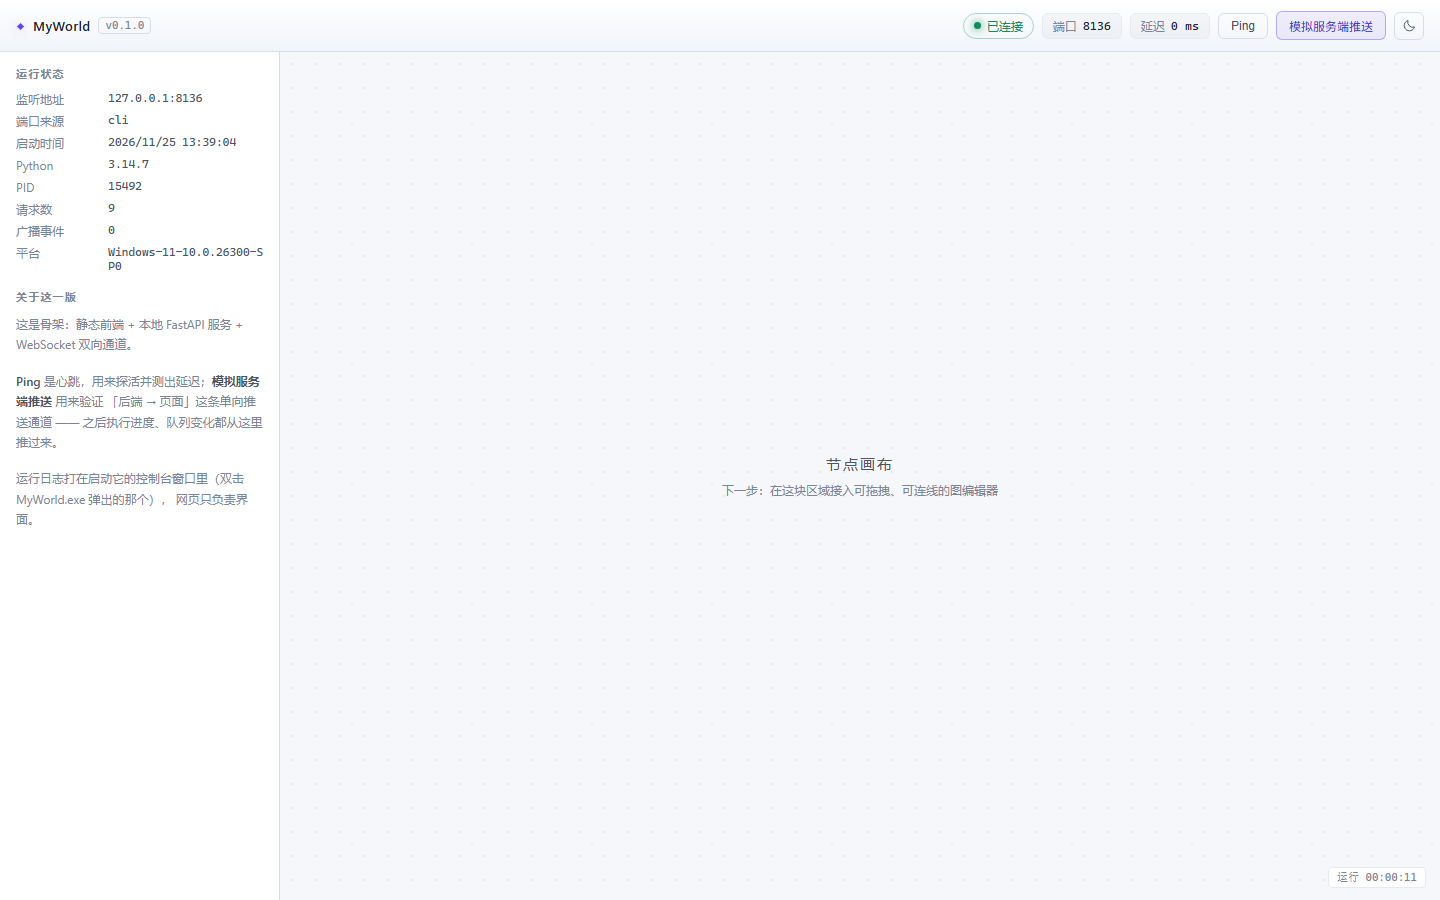
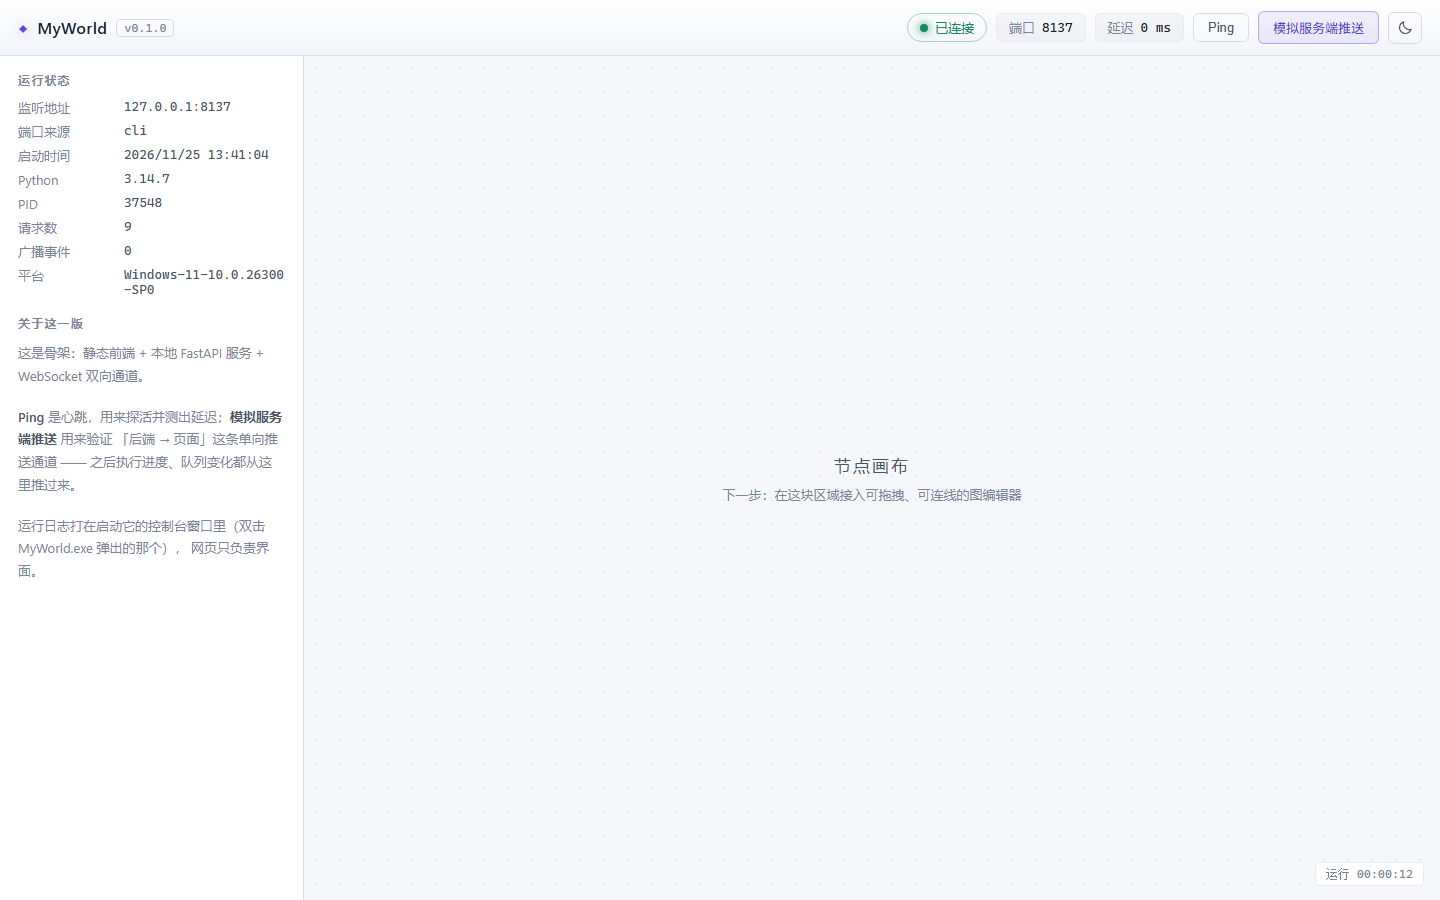
style: 整体放大字号，并把排版刻度收敛成变量
- 正文 13 → 15px，次要信息 13px，标题 17px；顶栏 52 → 56px，侧栏 280 → 304px
- 字号与尺寸集中为 --fs-base / --fs-small / --fs-tiny / --fs-heading /
  --topbar-h / --panel-w，以后整体缩放只改这一处
- 同步更新深浅两套截图

diff --git a/web/css/style.css b/web/css/style.css
@@ -1,5 +1,6 @@
 /* MyWorld 主题：全部颜色收敛成变量，深浅两套只换变量。
- * 深色为默认；<html data-theme="light"> 切浅色。 */
+ * 深色为默认；<html data-theme="light"> 切浅色。
+ * 字号集中在最下面的「排版刻度」里，想整体放大改那一处即可。 */
 
 :root {
   /* 深色（默认） */
@@ -76,6 +77,16 @@
   color-scheme: light;
 }
 
+/* ---------- 排版刻度（想整体放大改这里） ---------- */
+:root {
+  --fs-base: 15px;
+  --fs-small: 13px;
+  --fs-tiny: 12px;
+  --fs-heading: 17px;
+  --topbar-h: 56px;
+  --panel-w: 304px;
+}
+
 * {
   box-sizing: border-box;
 }
@@ -88,11 +99,11 @@ body {
 
 body {
   display: grid;
-  grid-template-rows: 52px minmax(0, 1fr);
+  grid-template-rows: var(--topbar-h) minmax(0, 1fr);
   background: var(--bg);
   color: var(--text);
   font-family: "Segoe UI", "PingFang SC", "Microsoft YaHei", system-ui, sans-serif;
-  font-size: 13px;
+  font-size: var(--fs-base);
   overflow: hidden;
   transition: background-color 0.18s ease, color 0.18s ease;
 }
@@ -103,7 +114,7 @@ body {
   align-items: center;
   justify-content: space-between;
   gap: 12px;
-  padding: 0 16px;
+  padding: 0 18px;
   background: linear-gradient(180deg, var(--topbar-hi), var(--topbar-lo));
   border-bottom: 1px solid var(--border);
   transition: background 0.18s ease, border-color 0.18s ease;
@@ -112,50 +123,51 @@ body {
 .brand {
   display: flex;
   align-items: center;
-  gap: 8px;
+  gap: 9px;
   user-select: none;
 }
 
 .logo {
   color: var(--accent);
-  font-size: 15px;
+  font-size: 17px;
   filter: drop-shadow(0 0 6px var(--accent-glow));
 }
 
 .brand-name {
   font-weight: 600;
+  font-size: 16px;
   letter-spacing: 0.4px;
 }
 
 .tag {
-  padding: 1px 6px;
+  padding: 1px 7px;
   border: 1px solid var(--border);
   border-radius: 4px;
   color: var(--text-faint);
   font-family: var(--mono);
-  font-size: 11px;
+  font-size: var(--fs-tiny);
 }
 
 .topbar-right {
   display: flex;
   align-items: center;
-  gap: 8px;
+  gap: 9px;
 }
 
 .pill {
   display: inline-flex;
   align-items: center;
-  gap: 6px;
-  padding: 4px 10px;
+  gap: 7px;
+  padding: 5px 12px;
   border: 1px solid var(--border);
   border-radius: 999px;
   color: var(--text-dim);
-  font-size: 12px;
+  font-size: var(--fs-small);
 }
 
 .pill .dot {
-  width: 7px;
-  height: 7px;
+  width: 8px;
+  height: 8px;
   border-radius: 50%;
   background: var(--text-faint);
 }
@@ -177,13 +189,13 @@ body {
 .chip {
   display: inline-flex;
   align-items: center;
-  gap: 6px;
-  padding: 4px 10px;
+  gap: 7px;
+  padding: 5px 12px;
   border: 1px solid var(--border-soft);
   border-radius: 6px;
   background: var(--chip-bg);
   font-family: var(--mono);
-  font-size: 12px;
+  font-size: var(--fs-small);
 }
 
 .chip-label {
@@ -192,12 +204,12 @@ body {
 }
 
 .btn {
-  padding: 5px 12px;
+  padding: 6px 14px;
   border: 1px solid var(--btn-border);
   border-radius: 6px;
   background: var(--btn-bg);
   color: var(--btn-text);
-  font-size: 12px;
+  font-size: var(--fs-small);
   cursor: pointer;
   transition: background 0.15s, border-color 0.15s;
 }
@@ -224,14 +236,14 @@ body {
 }
 
 .btn.small {
-  padding: 2px 8px;
-  font-size: 11px;
+  padding: 3px 9px;
+  font-size: var(--fs-tiny);
 }
 
 /* 主题切换：暗色下显示太阳（点了变亮），浅色下显示月亮 */
 .btn.icon {
-  width: 30px;
-  height: 28px;
+  width: 34px;
+  height: 32px;
   padding: 0;
   display: inline-flex;
   align-items: center;
@@ -240,6 +252,8 @@ body {
 }
 
 .btn.icon svg {
+  width: 17px;
+  height: 17px;
   display: none;
 }
 
@@ -254,12 +268,12 @@ body {
 /* ---------- 主体 ---------- */
 .layout {
   display: grid;
-  grid-template-columns: 280px minmax(0, 1fr);
+  grid-template-columns: var(--panel-w) minmax(0, 1fr);
   min-height: 0;
 }
 
 .panel {
-  padding: 14px 16px;
+  padding: 16px 18px;
   overflow-y: auto;
   background: var(--panel);
   border-right: 1px solid var(--border);
@@ -267,9 +281,9 @@ body {
 }
 
 .panel h2 {
-  margin: 0 0 10px;
+  margin: 0 0 11px;
   color: var(--text-faint);
-  font-size: 11px;
+  font-size: var(--fs-tiny);
   font-weight: 600;
   letter-spacing: 1.2px;
   text-transform: uppercase;
@@ -277,34 +291,34 @@ body {
 
 .panel h2 + .meta,
 .panel .hint {
-  margin-bottom: 16px;
+  margin-bottom: 18px;
 }
 
 .meta {
   display: grid;
-  grid-template-columns: 84px minmax(0, 1fr);
-  gap: 6px 8px;
-  margin: 0 0 20px;
+  grid-template-columns: 96px minmax(0, 1fr);
+  gap: 7px 10px;
+  margin: 0 0 22px;
 }
 
 .meta dt {
   color: var(--text-faint);
-  font-size: 12px;
+  font-size: var(--fs-small);
 }
 
 .meta dd {
   margin: 0;
   color: var(--text-dim);
   font-family: var(--mono);
-  font-size: 11.5px;
+  font-size: var(--fs-small);
   word-break: break-all;
 }
 
 .hint {
   margin: 0;
   color: var(--text-faint);
-  font-size: 12px;
-  line-height: 1.7;
+  font-size: var(--fs-small);
+  line-height: 1.75;
 }
 
 .hint b {
@@ -337,33 +351,33 @@ body {
   flex-direction: column;
   align-items: center;
   justify-content: center;
-  gap: 8px;
+  gap: 10px;
   pointer-events: none;
 }
 
 .canvas-hint strong {
   color: var(--text-dim);
-  font-size: 15px;
+  font-size: var(--fs-heading);
   font-weight: 500;
   letter-spacing: 2px;
 }
 
 .canvas-hint span {
   color: var(--text-faint);
-  font-size: 12px;
+  font-size: var(--fs-small);
 }
 
 .canvas-badge {
   position: absolute;
-  right: 14px;
-  bottom: 12px;
-  padding: 3px 8px;
+  right: 16px;
+  bottom: 14px;
+  padding: 4px 10px;
   border: 1px solid var(--border-soft);
   border-radius: 4px;
   background: var(--badge-bg);
   color: var(--text-faint);
   font-family: var(--mono);
-  font-size: 11px;
+  font-size: var(--fs-tiny);
 }
 
 /* ---------- 滚动条 ---------- */
@@ -384,9 +398,9 @@ body {
   background-clip: content-box;
 }
 
-@media (max-width: 820px) {
-  body {
-    grid-template-rows: 52px minmax(0, 1fr);
+@media (max-width: 900px) {
+  :root {
+    --panel-w: 0px;
   }
 
   .layout {
@@ -398,7 +412,7 @@ body {
   }
 
   .btn:not(.icon) {
-    padding: 4px 8px;
-    font-size: 11px;
+    padding: 5px 10px;
+    font-size: var(--fs-tiny);
   }
 }

diff --git a/README.md b/README.md
@@ -80,6 +80,7 @@ gcc -O2 -municode -static -static-libgcc -o MyWorld.exe tools\launcher.c
 
 - 强制某个主题：`http://127.0.0.1:8000/?theme=light`（截图、演示时方便）
 - 两套配色全部收敛在 [`web/css/style.css`](web/css/style.css) 的 CSS 变量里：`:root` 是深色，`:root[data-theme="light"]` 覆盖成浅色。加新组件时用变量，就不会在浅色下出现白底白字。
+- 字号也是变量：`--fs-base`（15px）、`--fs-small`、`--fs-tiny`、`--fs-heading`，外加 `--topbar-h`、`--panel-w`；想整体放大只改「排版刻度」那一段，不用逐个组件去调。
 
 ## 接口
 
@@ -124,7 +125,7 @@ myworld/
   server.py            FastAPI 应用：REST + WebSocket + 静态托管
 web/
   index.html           界面结构
-  css/style.css        明暗两套主题（CSS 变量）
+  css/style.css        明暗两套主题 + 排版刻度（全部是 CSS 变量）
   js/app.js            状态渲染、WS 连接/心跳/重连（日志在控制台，页面不放日志）
 tests/
   test_config.py       配置解析单元测试（纯标准库）
